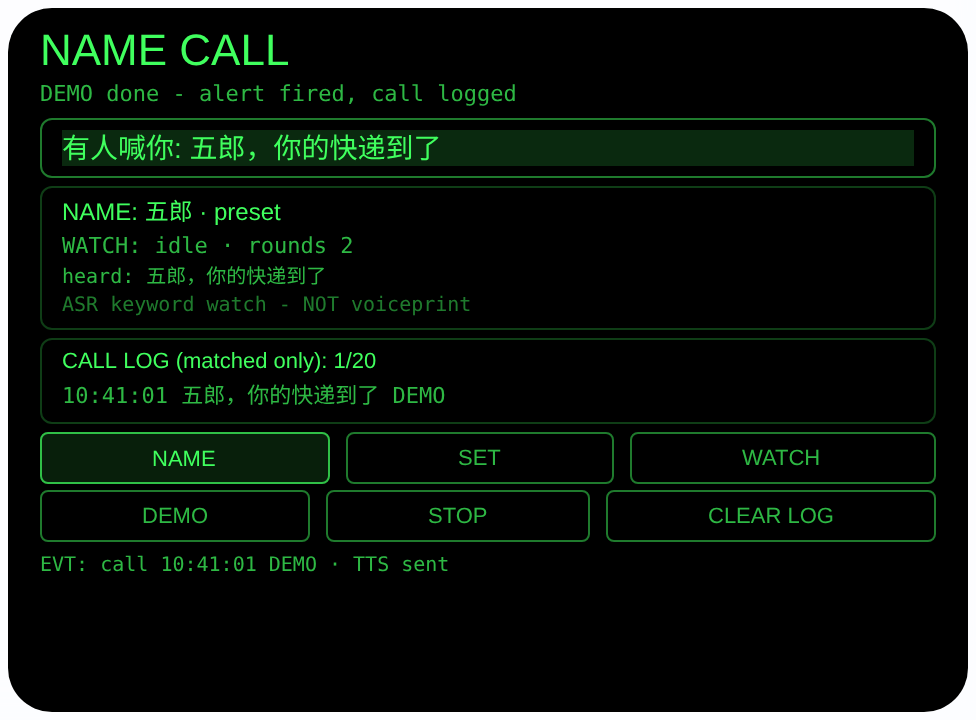
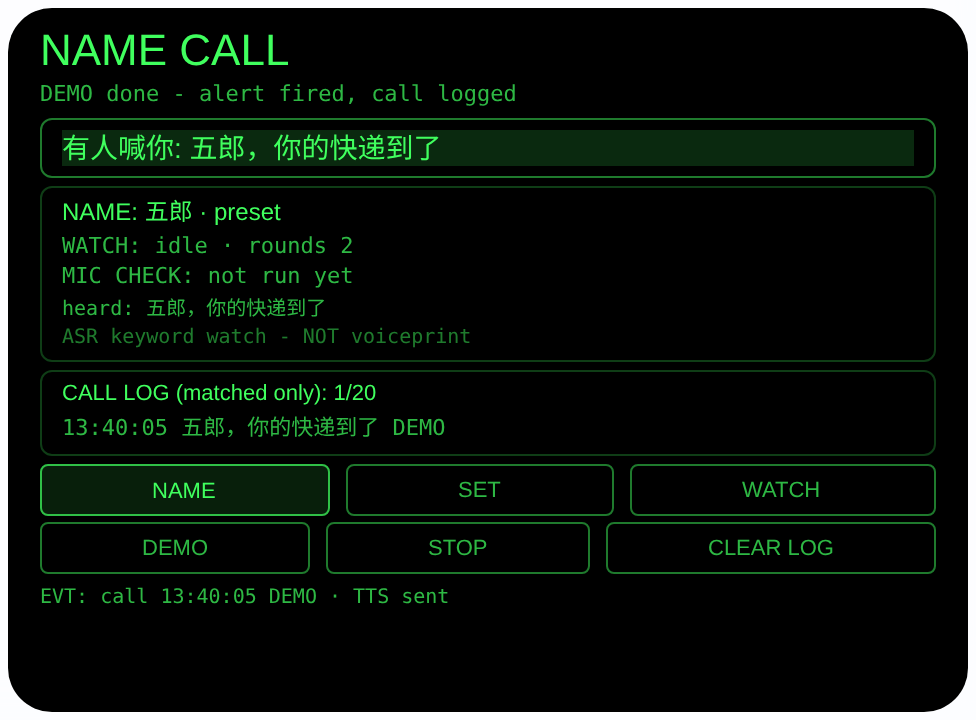
Rework #19 name-call for capability-boundary audit (v1.0.1)

Changed region(s): [[0.0307, 0.3667, 0.9836, 0.8556]]

diff --git a/name-call/README.md b/name-call/README.md
@@ -11,7 +11,7 @@
 
 截图统一存放于仓库根目录 `screenshots/name-call/`。
 
-![首页待机态（目标名字 五郎/预设、WATCH 待机、heard 占位行与「ASR 关键词、非声纹」诚实说明常驻、日志为空）](../screenshots/name-call/preview-name-call-index.png)
+![首页待机态（目标名字 五郎/预设、WATCH 待机、MIC CHECK 未运行行、heard 占位行与「ASR 关键词、非声纹」诚实说明常驻、日志为空）](../screenshots/name-call/preview-name-call-index.png)
 
 ![DEMO 报警态（两轮合成文本走同一套匹配路径：第 2 轮命中，有人喊你 大字高亮、整句原文与时间记入带 DEMO 标记的日志）](../screenshots/name-call/preview-name-call-alert.png)
 
@@ -28,16 +28,19 @@
 
 ## 指向性设计（为什么必须用眼镜）
 
-- **头戴守望（MIC4 远场模式 + ASR 轮次）**：WATCH 先按
+- **头戴守望（远场可用性检查 + 宿主 ASR 轮次）**：WATCH 先按
   文档方式用 `getUserMedia` 的 `captureSource:
   'microphone'` + `microphoneMode: 'far-field'` 做一次
-  远场可用性检查（读回 `track.getSettings()`，查完立即
-  停轨道）— 远场模式让 4 麦阵列去收房间那头的声音，
-  而不是佩戴者自己的呼吸和说话；随后以基准 Agent 的
-  `SpeechRecognition`（zh-CN）模式一轮接一轮地识别，
-  每轮听到的整句短暂显示为「heard: …」，轮次号常驻
-  界面。模式被设备拒绝（OverconstrainedError）时
-  回退默认麦克风并如实提示。
+  远场模式**可用性检查**（读回 `track.getSettings()`，
+  查完立即停轨道）— 这次检查只证明眼镜上存在房间侧的
+  远场麦克风模式，不为后面的识别供音：检查流停掉之后，
+  真正的守望聆听由宿主 `SpeechRecognition`（zh-CN）用
+  它自己的麦克风路径一轮接一轮地完成，远场模式对这些
+  识别轮次没有任何作用（档案 §2.4/§2.8）。每轮听到的
+  整句短暂显示为「heard: …」，轮次号与单独一行的
+  `MIC CHECK` 结果常驻界面，互不冒充。检查时模式被
+  设备拒绝（OverconstrainedError）时检查流回退默认
+  麦克风并如实提示 — 那同样只影响检查结果的标注。
 - **名字是你确认过的（NAME / SET）**：NAME 在预设
   （五郎 / 小明 / 小红 / 老王）间轮换；SET 让你自己
   说一次 — 听到的字符串**原样**成为目标并显示在
@@ -67,7 +70,8 @@ not-allowed 等持续性错误、或连续 5 轮出错，会停掉
 2. NAME / SET：换预设名字，或自己说一次录下目标
    （听到的原样显示，错了重说）
 3. WATCH：点 WATCH（或 Enter）→ 查 `SpeechRecognition`，
-   不可用 FAIL 写明 → 远场检查 → 一轮接一轮识别，
+   不可用 FAIL 写明 → 远场可用性检查（仅检查，识别
+   走宿主麦克风）→ 宿主 ASR 一轮接一轮识别，
    每轮整句短暂上屏，轮次计数实时更新
 4. 命中：满足子串匹配 → 大字高亮 + 整句原文 →
    TTS 朗读「有人喊你」→ 时间与整句记入日志
@@ -93,7 +97,7 @@ not-allowed 等持续性错误、或连续 5 轮出错，会停掉
 
 | 权限 | 用途 |
 |---|---|
-| RECORD_AUDIO | WATCH 时开麦听房间：`getUserMedia` 远场模式可用性检查 + `SpeechRecognition` 逐轮识别找你的名字；不录音、不保存音频、不上传。唯一持久化的是目标名字与命中日志（时间 + 命中整句，本机 wx 存储） |
+| RECORD_AUDIO | WATCH 时开麦听房间：`getUserMedia` 远场模式可用性检查（独立的检查流，停后不参与识别）+ 宿主 `SpeechRecognition`（用它自己的麦克风路径）逐轮识别找你的名字；不录音、不保存音频、不上传。唯一持久化的是目标名字与命中日志（时间 + 命中整句，本机 wx 存储） |
 
 ## 打包与预览
 
@@ -104,8 +108,9 @@ cd ~/workspace/rokid/name-call
 ```
 
 本地预览截图走 `~/workspace/preview-tools/` 的本地 Ink + puppeteer 路线
-（`shot-name.js`；报警截图的点击序列为 canvas 内 DEMO (83, 254)
-点 1 次后等约 4 秒待两轮合成文本走完、第 2 轮命中点火：
+（`shot-name.js`；报警截图的点击序列为 canvas 内 DEMO (83, 270)
+点 1 次后等约 4 秒待两轮合成文本走完、第 2 轮命中点火 —
+1.0.1 加了 MIC CHECK 独立行后按钮行下移，旧坐标 (83, 254) 会误点 NAME：
 注意 artifacts/preview.html 需先把 importmap 的 jspm 地址
 换成本地 `/ink/index.js` 再复制到 preview-tools/www/）。
 
@@ -133,11 +138,11 @@ cd ~/workspace/rokid/name-call
 | 项目 | 值 |
 |---|---|
 | Agent Name（Studio） | 待导入后回填 |
-| Version（Build） | 1.0.0（待导入后回填） |
+| Version（Build） | 1.0.1（待导入后回填） |
 | App Category | 待导入后回填 |
 | Intent Description | 待导入后回填 |
 | Agent ID | 待导入后回填 |
-| AIX Package Size | 约 16.6 KB（本地打包 `dist/name-call.aix`，分次打包有 ±0.01 KB 级抖动） |
+| AIX Package Size | 约 17.7 KB（本地打包 `dist/name-call.aix`，分次打包有 ±0.01 KB 级抖动） |
 | 状态 | 本地完成，待导入 Studio |
 | Studio | aiui-global.rokid.com（en-US） |
 | 下发方式 | 云端下发 → Hi Rokid（海外版）更新眼镜资源包 |
@@ -155,7 +160,7 @@ cd ~/workspace/rokid/name-call
   `SpeechRecognition` 加载进 Node，共 27 项断言全过 —
   `_matches` 子串匹配（命中/不命中/空目标/空文本）；
   SET 把听到的字符串原样设为目标并持久化、NAME 轮换
-  预设；WATCH 远场检查读回 `far-field`、第 1 轮启动；
+  预设；WATCH 远场可用性检查读回 `far-field`（仅检查）、第 1 轮宿主 ASR 启动；
   无命中轮次只上屏不存日志、onend 衔接下一轮；
   no-speech 安静计数且循环继续；命中后日志记时间 +
   整句并持久化、报警行点亮、循环继续守望；
@@ -174,12 +179,19 @@ cd ~/workspace/rokid/name-call
   五郎，你的快递到了」高亮、日志记入带 DEMO 标记的
   时间与整句。预览主机无 `SpeechRecognition`，
   WATCH / SET 的 FAIL/SKIP 路径为代码完备、已由 Node
-  打桩测试覆盖，未在此环境触发截图。
+  打桩测试覆盖，未在此环境触发截图。1.0.1 修复后已
+  重截两张：首页新增独立的 `MIC CHECK: not run yet`
+  行、守望行不再带模式名；另以 Node 打桩验算
+  `_recompute` 四种检查结果（far-field OK / default mic /
+  FAIL / n/a）下 MIC CHECK 行与 `(host ASR)` 守望行
+  文案全对、守望行不含 far-field 字样。
 
 **未验证**
 
-- 真机 4 麦 `far-field` 模式是否被接受、实际拾音距离；
-  远场检查的回退路径未在真机触发过。
+- 真机 4 麦 `far-field` 模式在检查流上是否被接受（这只
+  决定 `MIC CHECK` 一行的标注，不决定识别效果）；
+  远场检查的回退路径未在真机触发过；真正决定守望
+  效果的是宿主 ASR 在房间距离上的实际识别表现。
 - 真实环境里的命中率与误报率 — 本 Agent 最大的未知数：
   隔房喊名（不同距离、隔门/隔墙）的漏喊率，电视/广播
   里出现同名或近音词的误报率，多人同时说话时的表现，
@@ -198,24 +210,38 @@ cd ~/workspace/rokid/name-call
 
 ### Feature Description
 
-Name Call listens for your name, so a call across a noisy room reaches your eyes. Pick a preset name, or say your own once to set it. Tap WATCH and the glasses run speech-recognition rounds in far-field mic mode, showing each heard sentence; when a round contains your name, a big alert lights up, the glasses speak, and the time and sentence are logged. It is ASR keyword spotting, not a voiceprint - it can miss a call and can false-fire.
+Name Call listens for your name, so a call across a noisy room reaches your eyes. Pick a preset name, or say your own once to set it. Tap WATCH: the glasses pass a far-field mic-mode availability check (that check does not power recognition), then run host speech-recognition rounds, showing each heard sentence. When a round contains your name, a big alert lights up, the glasses speak, and the time and sentence are logged. ASR keyword spotting, not a voiceprint - it can miss and false-fire.
 
 ### Opening Message
 
 Hi, I'm **Name Call** - I listen to the room and light up when someone calls your name.
 
-Set your name with **NAME** (presets) or **SET** (say it once - I keep exactly what I hear, so check the screen). Tap **WATCH** and I run recognition rounds back to back, showing what I hear; a round containing your name fires the alert, speaks, and is logged with its time. I match recognised words, not voices: in noise I can miss, and similar words can fool me. **DEMO** plays both rounds.
+Set your name with **NAME** (presets) or **SET** (say it once - I keep exactly what I hear, so check the screen). Tap **WATCH**: after a far-field mic-mode check, I run host recognition rounds, showing what I hear; a round with your name fires the alert, speaks, and is logged. I match words, not voices: in noise I can miss, and similar words can fool me. **DEMO** plays both rounds.
 
 ### Preview Media
 
 提交要求：3–5 个 JPG/PNG 图片或 MP4 视频，至少含 1 张图和 1 个视频，每次提交前重新确认。
 
-- Image 1：`artifacts/preview-name-call-index.png`（aix preview 首页待机态：目标名字 五郎/预设、WATCH 待机、诚实说明行、空日志，本地文件，提交时从本地上传）
+- Image 1：`artifacts/preview-name-call-index.png`（aix preview 首页待机态：目标名字 五郎/预设、WATCH 待机、MIC CHECK 独立行、诚实说明行、空日志，本地文件，提交时从本地上传）
 - Image 2：`artifacts/preview-name-call-alert.png`（DEMO 报警态：有人喊你 大字高亮、整句原文、DEMO 时间与整句入日志，本地文件）
 - Video：待真机补 — 真机录制「点 WATCH → 家人在房间另一头喊名字 → 眼前亮起 有人喊你 → 日志记时记句」全过程（MP4），录好后放 `artifacts/` 并更新此处
 - 状态：未齐（已有 2 张图；还需至少 1 个视频，总数补到 3–5 个后才可提交）
 
 ### Change Log
+
+#### Build 1.0.1
+
+**Features added**
+
+- None (honesty fix only).
+
+**Improvements**
+
+- The watch screen now shows the microphone check on its own line (`MIC CHECK: far-field OK`) and labels the listening line as host ASR (`WATCH: listening · round N (host ASR)`), so the check result and the recognition state no longer share a line.
+
+**Fixes**
+
+- Far-field claims corrected (capability-boundary audit 2026-10-24): the far-field stream is a microphone-mode availability check only - it is stopped before recognition starts and has no effect on the recognition rounds, which use host SpeechRecognition on its own microphone. The Feature Description no longer says the rounds run "in far-field mic mode", and the README/AGENTS.md design text no longer says the far-field mode picks up the room for the watch.
 
 #### Build 1.0.0
 

diff --git a/name-call/AGENTS.md b/name-call/AGENTS.md
@@ -20,13 +20,18 @@ Rokid 眼镜喊名提醒智能体（AIUI Agent）。
   （key `nameCallTarget`），下次打开自动载入。
 - 守望（WATCH）：先按文档方式用 `getUserMedia({audio:
   {captureSource:'microphone', microphoneMode:'far-field'}})`
-  做一次远场模式可用性检查（读回 `track.getSettings()`，
-  检查完立即停轨道 — 远场模式让 4 麦阵列去收房间那头
-  的声音，而不是佩戴者自己）；然后以基准 Agent 的
-  `SpeechRecognition` 模式（zh-CN）一轮接一轮地识别：
-  每轮把听到的整句短暂显示为「heard: …」，界面显示当前
-  轮次（round n）。`SpeechRecognition` 不可用时如实
-  FAIL / SKIP，绝不假装在听。
+  做一次远场模式**可用性检查**（读回 `track.getSettings()`，
+  检查完立即停轨道）。这次检查只证明该模式在这台眼镜上
+  能打开，不为后面的识别供音，检查流停掉之后模式便
+  不再起任何作用；真正的识别由宿主 `SpeechRecognition`
+  （zh-CN）用它自己的麦克风路径一轮接一轮地完成
+  （档案 §2.4/§2.8：`microphoneMode` 只作用于
+  `getUserMedia` 自己的流）。每轮把听到的整句短暂显示
+  为「heard: …」，界面分行显示当前轮次
+  （`WATCH: listening · round n (host ASR)`）与检查
+  结果（`MIC CHECK: far-field OK`），互不冒充。
+  `SpeechRecognition` 不可用时如实 FAIL / SKIP，
+  绝不假装在听。
 - 匹配与报警：每轮识别文本做**子串匹配** — 含有目标
   名字即触发：眼前亮起大字「有人喊你: <整句原文>」，
   TTS 朗读「有人喊你」，报警时间与命中的整句记入日志
@@ -59,7 +64,7 @@ Rokid 眼镜喊名提醒智能体（AIUI Agent）。
   不上传音频；未命中的轮次文本不落盘，只有命中的那句
   连同时间存进本机日志（为的是你回头能看「几点、喊的
   是什么」），CLEAR LOG 一键清空。
-- 远场 ASR 的错误率在真机上未验证：距离、混响、多人
+- 宿主 ASR 的错误率在真机上未验证：距离、混响、多人
   同时说话都会让它错得更多 — 这也是为什么 SET 录进来
   的名字要原样显示给你确认：目标一旦听错，守望就守
   错了人。
